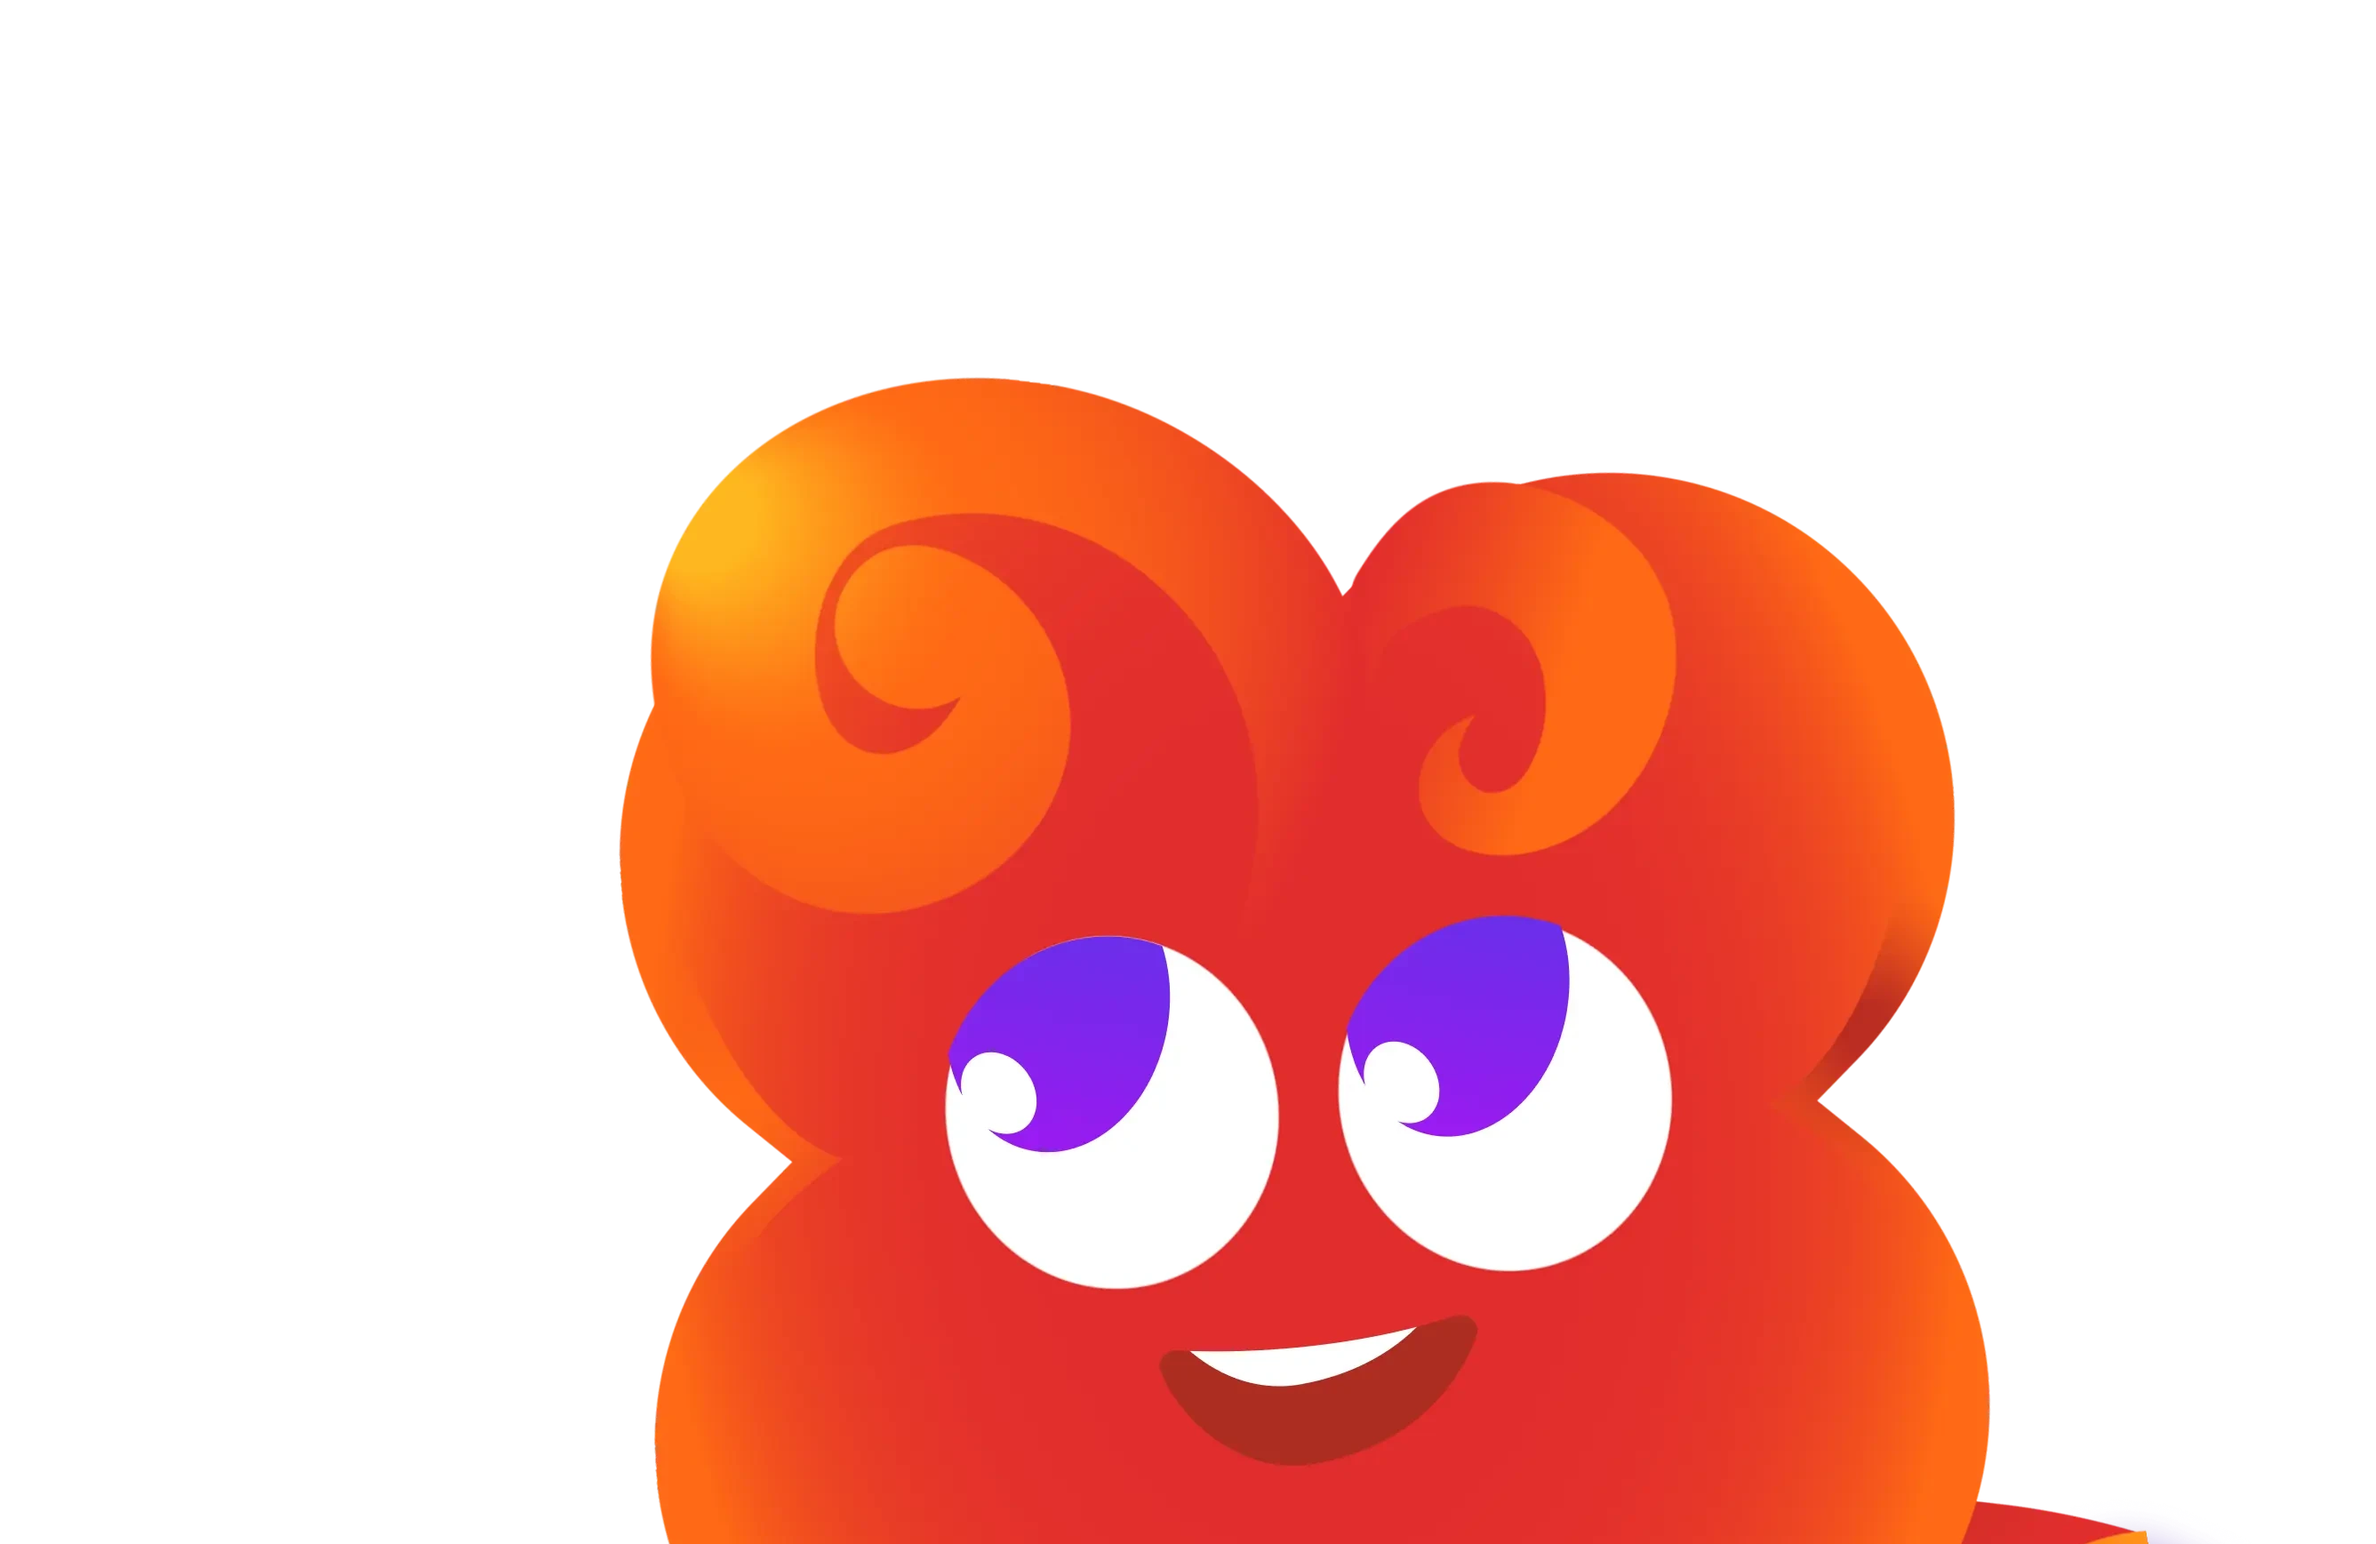
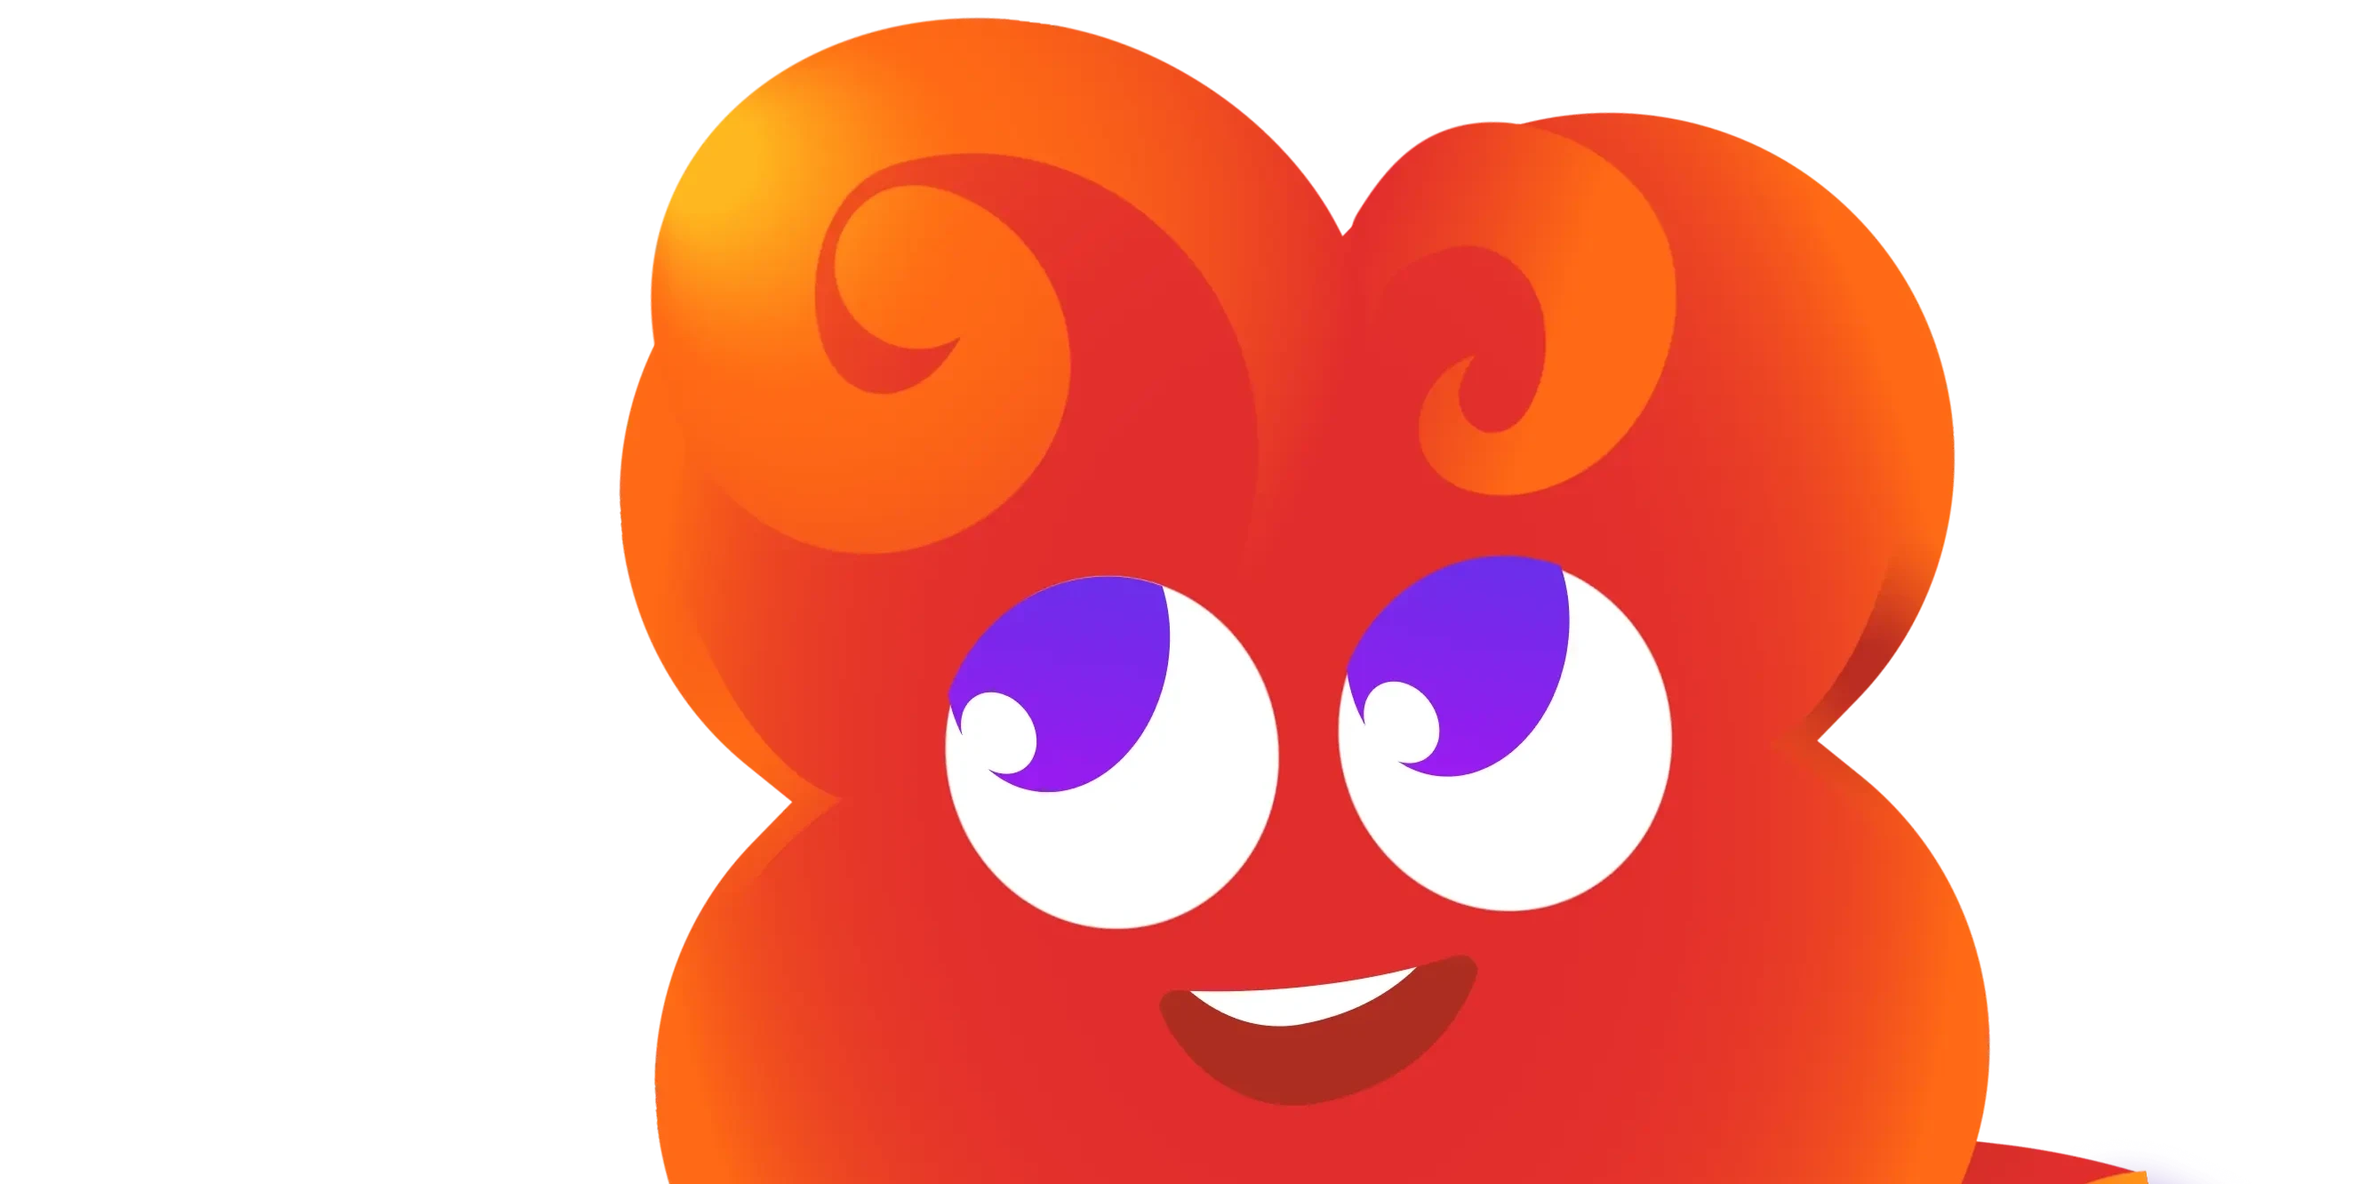
feat: venue information done

Changed region(s): [[0.2484, 0.0, 0.8384, 0.9542], [0.8073, 0.9542, 0.9005, 1.0]]

diff --git a/src/app/main-event/_components/VenueSection.tsx b/src/app/main-event/_components/VenueSection.tsx
@@ -13,7 +13,7 @@ const MAP_EMBED_SRC =
 
 export default function VenueSection() {
     return (
-        <div className="relative flex w-full flex-col items-center justify-center overflow-hidden pt-32 pb-16 md:pb-32">
+        <div className="relative flex w-full flex-col items-center justify-center overflow-hidden pt-32 pb-48 sm:pb-56 md:pb-64">
             {/* Purple Cloud at the top */}
             <motion.div
                 className="absolute top-0 right-0 left-0 z-40 w-full rotate-180"
@@ -33,8 +33,9 @@ export default function VenueSection() {
                 />
             </motion.div>
 
+            {/* Map + Buttons */}
             <div className="relative z-30 container mx-auto flex max-w-6xl flex-col items-center px-4">
-                {/* Title */}
+                {/* Title — restored to original position */}
                 <motion.div
                     className="mb-8 w-full max-w-xl md:mb-12 md:max-w-2xl"
                     initial={{ opacity: 0, y: 20 }}
@@ -122,38 +123,60 @@ export default function VenueSection() {
                         10 May 2026
                     </motion.div>
                 </motion.div>
-
-                <motion.div
-                    className="absolute -bottom-48 left-1/2 z-10 flex w-full max-w-2xl -translate-x-1/2 justify-center sm:-bottom-64 md:-bottom-80 md:max-w-3xl lg:-bottom-[28rem] lg:max-w-4xl"
-                    initial={{ opacity: 0, y: 50 }}
-                    whileInView={{ opacity: 1, y: 0 }}
-                    viewport={{ once: true, margin: "-120px" }}
-                    transition={{ duration: 0.7, ease: "easeOut", delay: 0.3 }}
-                >
-                    <div className="relative flex w-full justify-center">
-                        <Image
-                            src="/main-event/mascot-arms.webp"
-                            alt="Mascot Arms"
-                            width={1000}
-                            height={500}
-                            className="absolute bottom-0 z-20 h-auto w-[110%] max-w-none md:w-[120%]"
-                            draggable={false}
-                        />
-                        <Image
-                            src="/main-event/mascot-head.webp"
-                            alt="Mascot Head"
-                            width={800}
-                            height={800}
-                            className="absolute bottom-32 z-10 h-auto w-[80%] md:w-[90%]"
-                            draggable={false}
-                        />
-                    </div>
-                </motion.div>
             </div>
+
+            {/* venue-asset — full width, absolutely positioned from the bottom */}
+            <motion.div
+                className="pointer-events-none absolute left-0 right-0 bottom-0 z-15 w-full"
+                initial={{ opacity: 0, y: 30 }}
+                whileInView={{ opacity: 1, y: 0 }}
+                viewport={{ once: true, margin: "-120px" }}
+                transition={{ duration: 0.7, ease: "easeOut", delay: 0.15 }}
+            >
+                <Image
+                    src="/main-event/venue-asset.webp"
+                    alt="Venue Asset"
+                    width={1920}
+                    height={600}
+                    className="h-auto w-full"
+                    draggable={false}
+                />
+            </motion.div>
+
+            {/* Mascot behind clouds — only eyes peek above the cloud top edge */}
+            <motion.div
+                className="absolute bottom-0 left-1/2 z-10 w-full max-w-2xl -translate-x-1/2 md:max-w-3xl lg:max-w-4xl"
+                initial={{ opacity: 0, y: 60 }}
+                whileInView={{ opacity: 1, y: 0 }}
+                viewport={{ once: true, margin: "-120px" }}
+                transition={{ duration: 0.7, ease: "easeOut", delay: 0.3 }}
+            >
+                {/* Aspect-ratio container anchors both images from the bottom */}
+                <div className="relative w-full" style={{ paddingBottom: "55%" }}>
+                    {/* Arms — full width, sits at the very bottom */}
+                    <Image
+                        src="/main-event/mascot-arms.webp"
+                        alt="Mascot Arms"
+                        width={1000}
+                        height={500}
+                        className="absolute bottom-0 left-1/2 h-auto w-[150%] max-w-none -translate-x-1/2"
+                        draggable={false}
+                    />
+                    {/* Head — centered, raised so only eyes peek above cloud */}
+                    <Image
+                        src="/main-event/mascot-head.webp"
+                        alt="Mascot Head"
+                        width={800}
+                        height={800}
+                        className="absolute -bottom-[15%] left-1/2 h-auto w-[80%] -translate-x-1/2"
+                        draggable={false}
+                    />
+                </div>
+            </motion.div>
 
             {/* Cloud at the bottom */}
             <motion.div
-                className="absolute right-0 bottom-0 left-0 z-20 w-full"
+                className="pointer-events-none absolute right-0 bottom-0 left-0 z-20 w-full"
                 initial={{ opacity: 0, y: 50 }}
                 whileInView={{ opacity: 1, y: 0 }}
                 viewport={{ once: true, margin: "-120px" }}
